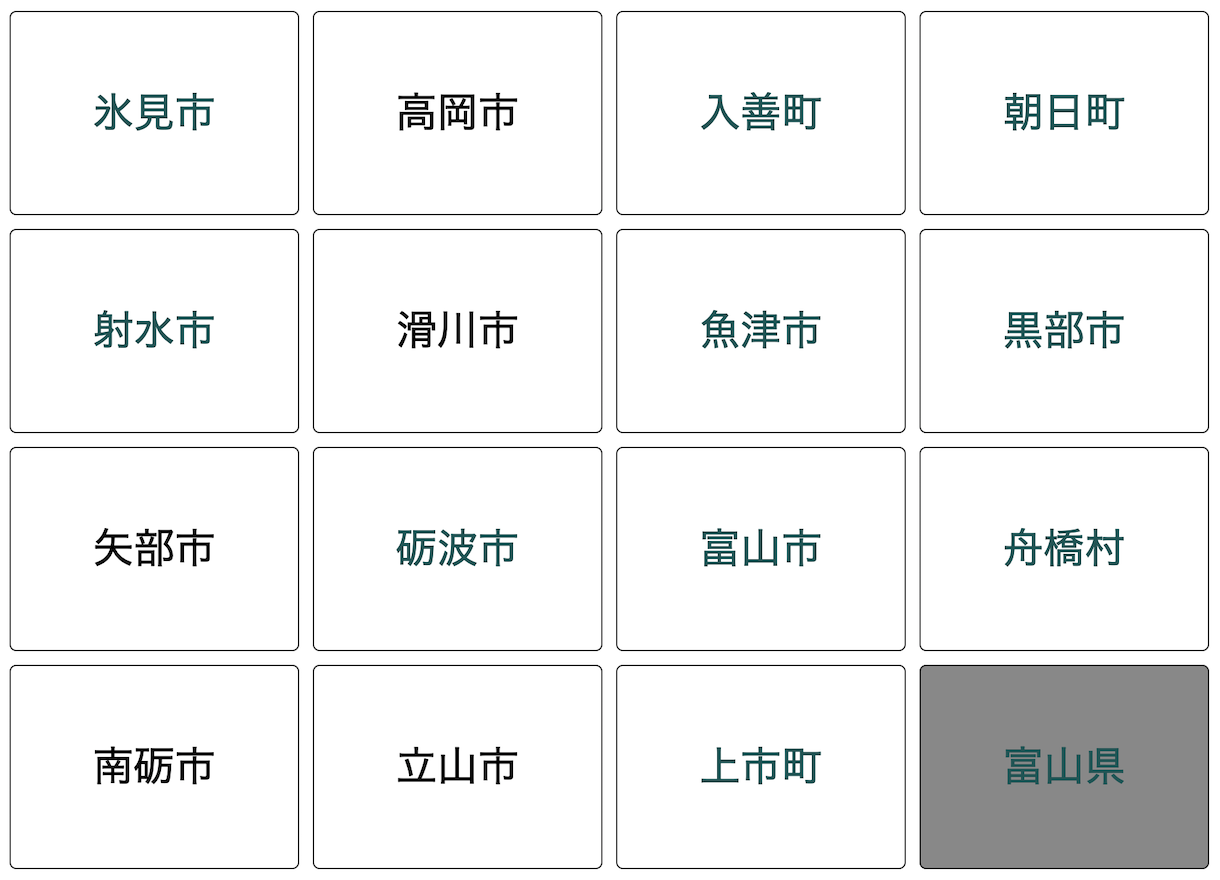
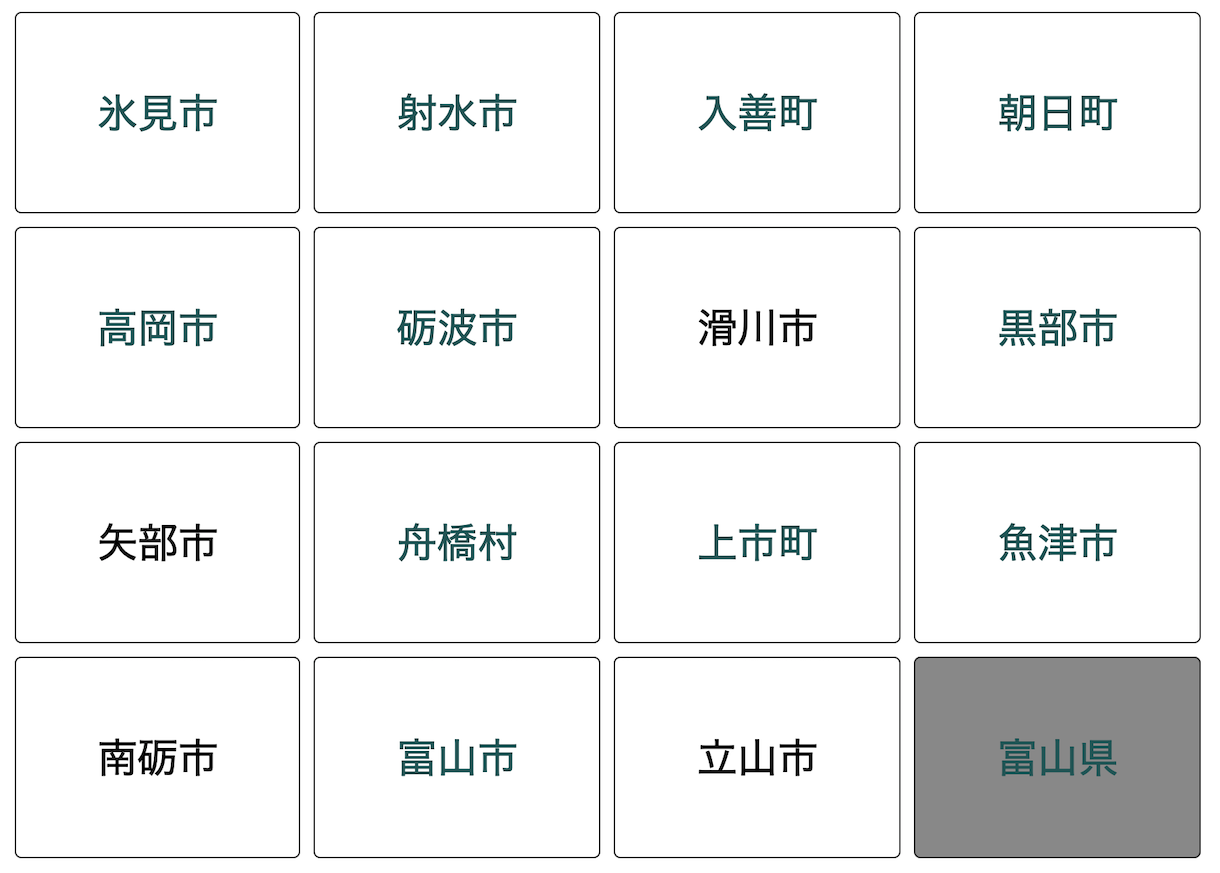
mod toyama

diff --git a/toyama.html b/toyama.html
@@ -10,11 +10,22 @@
 <script>'use strict'
 
 // 15市町村 4x4
+/* // v1.0
 const TABULARMAP_SRC = `
 氷見市	高岡市	入善町	朝日町
 射水市	滑川市	魚津市	黒部市
 矢部市	砺波市	富山市	舟橋村
 南砺市	立山市	上市町	`
+*/
+// v1.1
+const TABULARMAP_SRC = `
+氷見市	射水市	入善町	朝日町
+高岡市	砺波市	滑川市	黒部市
+矢部市	舟橋村	上市町	魚津市
+南砺市	富山市	立山市	`
+
+// thanks! @macoto_1655 https://twitter.com/macoto_1655/status/1121239508169547782
+
 
 window.onload = function() {
 	tmap.innerHTML = makeTabularMap(TABULARMAP_SRC)
